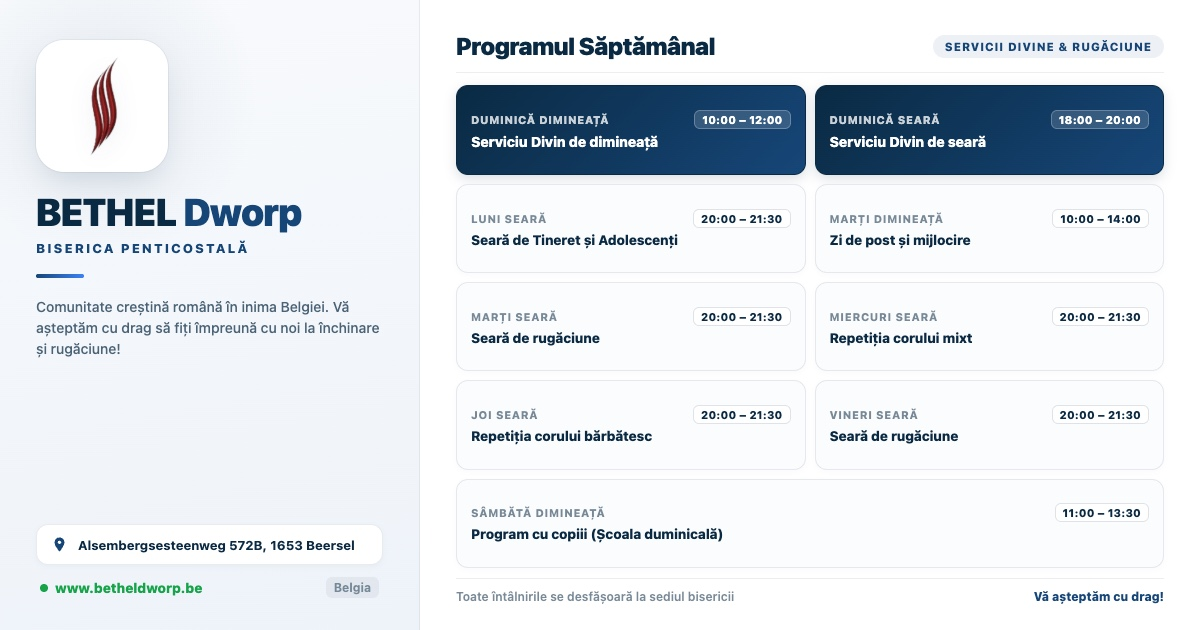
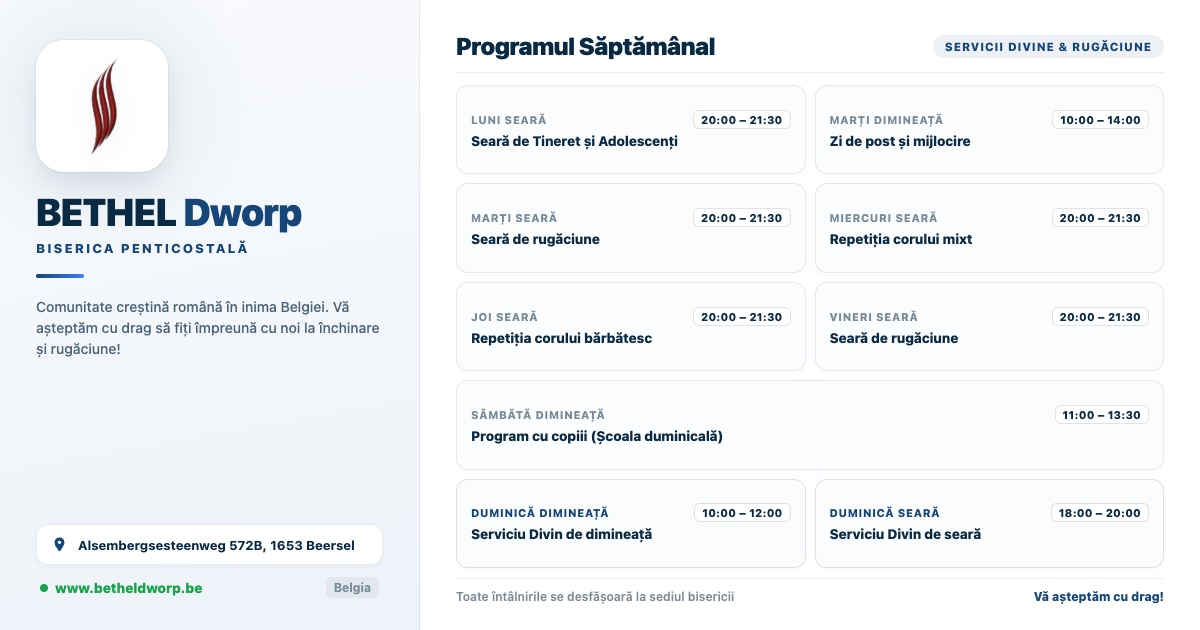
fix: ordre chronologique du lundi au dimanche et cartes blanches uniformes pour l'image de partage

diff --git a/public/og-template.html b/public/og-template.html
@@ -268,25 +268,24 @@
         }
 
         /* Cartes Duminica en Bleu Royal / Premium Navy */
+        /* Duminica style same as other cards */
         .sched-card--sunday {
-            background: linear-gradient(135deg, #0a2a43 0%, #164678 100%);
-            border-color: #0a2a43;
-            box-shadow: 0 4px 12px rgba(10, 42, 67, 0.15);
+            background: #fbfcfd;
+            border: 1.5px solid rgba(10, 42, 67, 0.12);
         }
 
         .sched-card--sunday .sched-day {
-            color: rgba(255, 255, 255, 0.78);
+            color: #164678;
         }
 
         .sched-card--sunday .sched-time {
-            background: rgba(255, 255, 255, 0.15);
-            color: #ffffff;
-            border-color: rgba(255, 255, 255, 0.25);
+            background: #ffffff;
+            color: #0a2a43;
+            border-color: rgba(10, 42, 67, 0.15);
         }
 
         .sched-card--sunday .sched-activity {
-            color: #ffffff;
-            font-size: 14px;
+            color: #0a2a43;
         }
 
         .sched-footer {
@@ -343,25 +342,8 @@
             <span class="sched-tag">Servicii Divine & Rugăciune</span>
         </div>
 
-        <div class="sched-grid">
-            <!-- Row 1: Duminica Dimineata & Duminica Seara -->
-            <div class="sched-card sched-card--sunday">
-                <div class="sched-card-top">
-                    <span class="sched-day">Duminică dimineață</span>
-                    <span class="sched-time">10:00 – 12:00</span>
-                </div>
-                <div class="sched-activity">Serviciu Divin de dimineață</div>
-            </div>
-
-            <div class="sched-card sched-card--sunday">
-                <div class="sched-card-top">
-                    <span class="sched-day">Duminică seară</span>
-                    <span class="sched-time">18:00 – 20:00</span>
-                </div>
-                <div class="sched-activity">Serviciu Divin de seară</div>
-            </div>
-
-            <!-- Row 2: Luni & Marti Dimineata -->
+                <div class="sched-grid">
+            <!-- Row 1: Luni & Marti Dimineata -->
             <div class="sched-card">
                 <div class="sched-card-top">
                     <span class="sched-day">Luni seară</span>
@@ -378,7 +360,7 @@
                 <div class="sched-activity">Zi de post și mijlocire</div>
             </div>
 
-            <!-- Row 3: Marti Seara & Miercuri -->
+            <!-- Row 2: Marti Seara & Miercuri -->
             <div class="sched-card">
                 <div class="sched-card-top">
                     <span class="sched-day">Marți seară</span>
@@ -395,7 +377,7 @@
                 <div class="sched-activity">Repetiția corului mixt</div>
             </div>
 
-            <!-- Row 4: Joi & Vineri -->
+            <!-- Row 3: Joi & Vineri -->
             <div class="sched-card">
                 <div class="sched-card-top">
                     <span class="sched-day">Joi seară</span>
@@ -412,13 +394,30 @@
                 <div class="sched-activity">Seară de rugăciune</div>
             </div>
 
-            <!-- Row 5: Sambata Dimineata (span 2 cols) -->
+            <!-- Row 4: Sambata Dimineata (span 2 cols) -->
             <div class="sched-card" style="grid-column: span 2;">
                 <div class="sched-card-top">
                     <span class="sched-day">Sâmbătă dimineață</span>
                     <span class="sched-time">11:00 – 13:30</span>
                 </div>
                 <div class="sched-activity">Program cu copiii (Școala duminicală)</div>
+            </div>
+
+            <!-- Row 5: Duminica Dimineata & Duminica Seara -->
+            <div class="sched-card sched-card--sunday">
+                <div class="sched-card-top">
+                    <span class="sched-day">Duminică dimineață</span>
+                    <span class="sched-time">10:00 – 12:00</span>
+                </div>
+                <div class="sched-activity">Serviciu Divin de dimineață</div>
+            </div>
+
+            <div class="sched-card sched-card--sunday">
+                <div class="sched-card-top">
+                    <span class="sched-day">Duminică seară</span>
+                    <span class="sched-time">18:00 – 20:00</span>
+                </div>
+                <div class="sched-activity">Serviciu Divin de seară</div>
             </div>
         </div>
 
